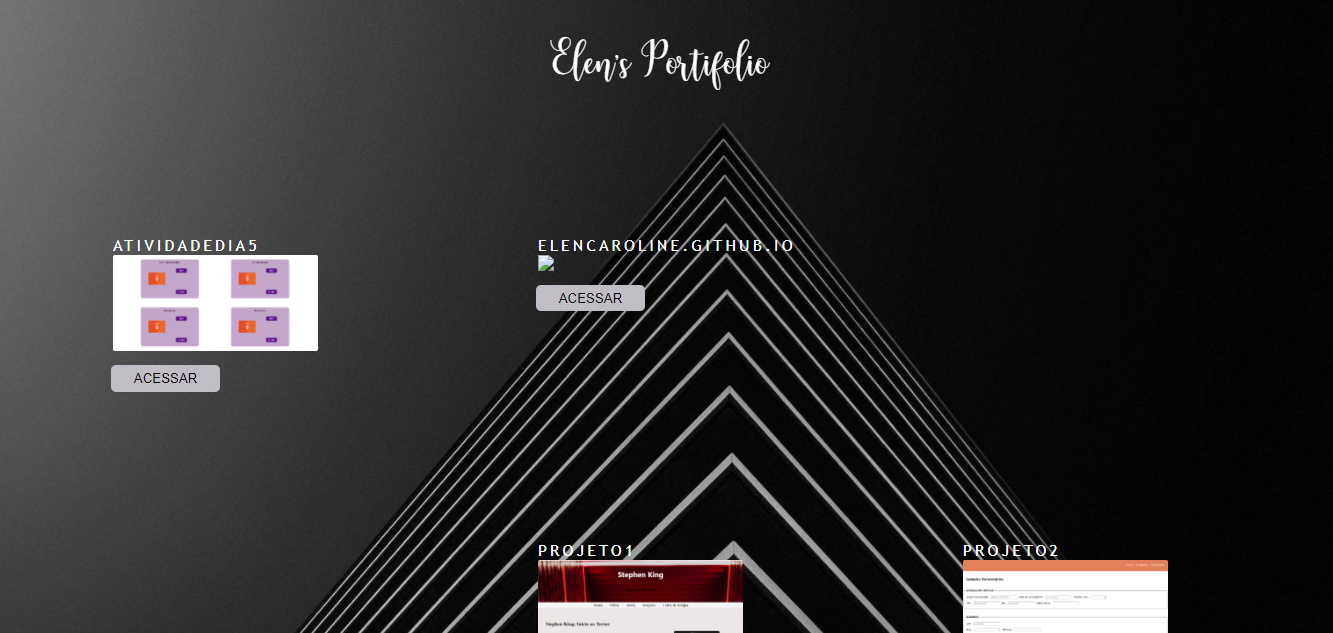
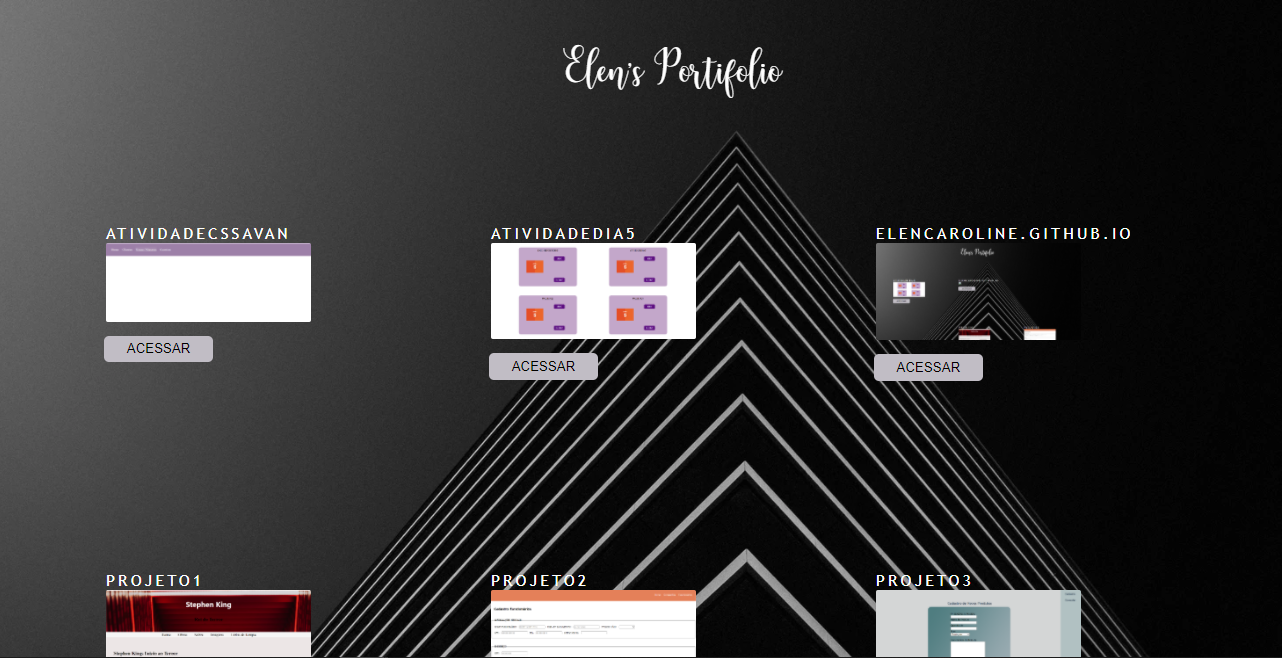
continuacao projero

Changed region(s): [[0.0, 0.2101, 0.9048, 1.0], [0.0624, 0.3302, 0.2496, 0.6303], [0.4056, 0.06, 0.624, 0.1501]]

diff --git a/style.css b/style.css
@@ -44,3 +44,36 @@ h1{
     font-family: MadelinaScript;
     font-weight: lighter;
 }
+
+#detalhe{
+    text-decoration: none;
+    color: rgb(133, 108, 153);
+    font-family:  'Poppins', sans-serif;
+    font-weight: unset;
+    position: relative;
+}
+#detalhe::after{
+    content: '';
+    position: absolute;
+    width: 0;
+    height: 1px;
+    background-color:rgb(133, 108, 153) ;
+    bottom: 0;
+    left: 0;
+}
+#detalhe::before{
+    content: '';
+    position: absolute;
+    width:0;
+    height: 1px;
+    background-color:rgb(133, 108, 153) ;
+    left: 0;
+}
+#detalhe:hover::after{
+    width: 100%;
+    transition:width 0.4s ease-in-out;
+}
+#detalhe:hover::before{
+    width: 100%;
+    transition:width 0.5s ease-in-out;
+}

diff --git a/main.js b/main.js
@@ -12,7 +12,7 @@
             for(let i =0; i<cont.length; i++){
 
                 main.innerHTML += "<div id='container'><div>"+ cont[i].name + "<div id='name'><img id='img1' src='../imagens/" + cont[i].name + 
-                ".png'></div><div id='html'><a href='"+ cont[i].html_url + "'target='_blank'><input type='button'id='button' value='ACESSAR'></a></div></div>"
+                ".png'></div><div id='html'><a href='"+ cont[i].html_url + "'target='_blank'><input type='button'id='button' value='ACESSAR'></a></div><div><a id='detalhe' href='detalhes.html'>Mais Detalhes</div></div>"
             }
         }
       

diff --git a/index.html b/index.html
@@ -14,6 +14,7 @@
             <div>
                 <h1> Elen's Portifolio</h1>
             </div>
+            
         </main>
         <script src="main.js"></script>
     </body>
